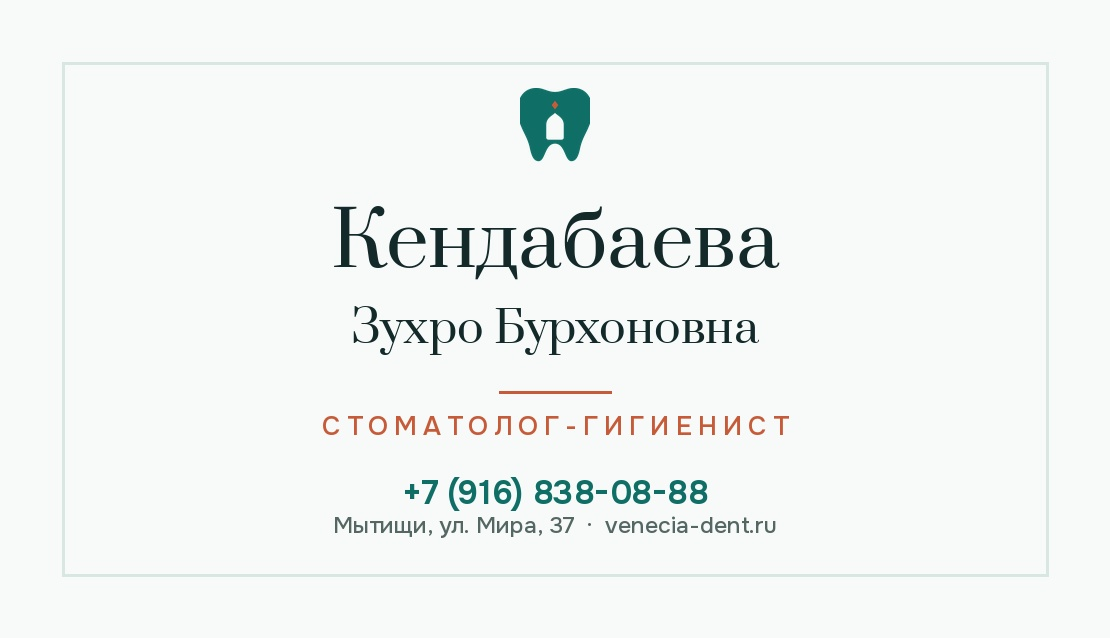
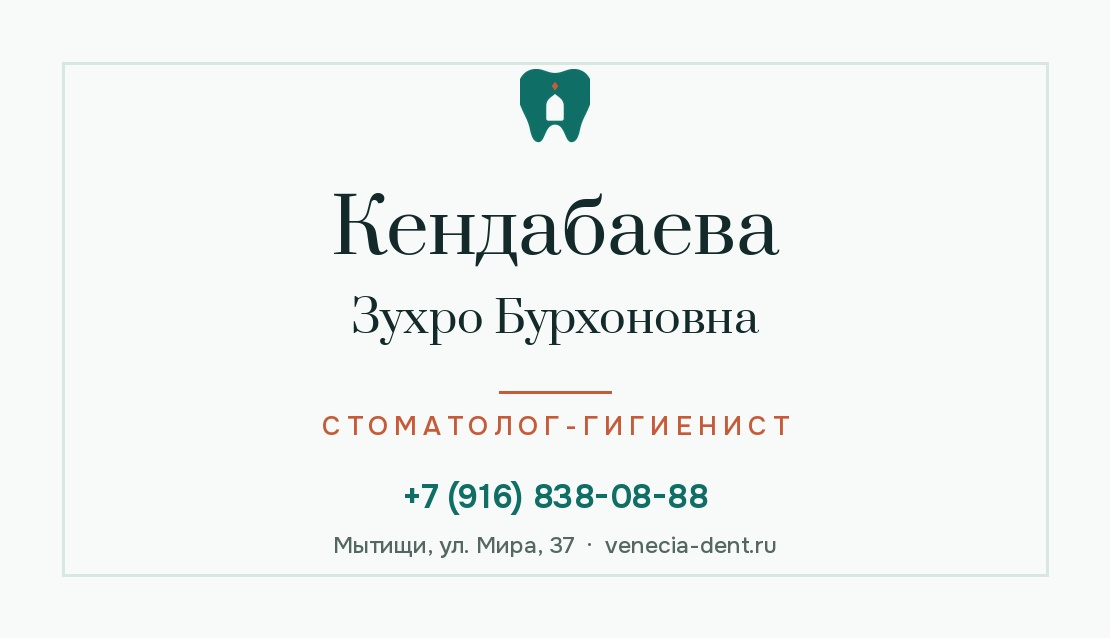
Визитки: единый ритм отступов 46/22, идентичная посадка на всех карточках (эталонные метрики шрифта)

diff --git a/_materials/vizitki/build-cards.py b/_materials/vizitki/build-cards.py
@@ -64,19 +64,27 @@ def front(surname, name, role, out, frame=True):
     f_sur, f_nam, f_role = prata(76), prata(44), onest(26, 550)
     f_ph, f_ad = onest(33, 650), onest(23, 500)
 
-    def th(text, font, ls=0):
+    def th(text, font):
         b = d.textbbox((0, 0), text, font=font)
         return b[1], b[3] - b[1]  # (смещение до чернил, высота чернил)
 
-    # элементы и ЧИСТЫЕ визуальные зазоры между чернилами (px)
+    # высоты — по ЭТАЛОННОЙ строке «Ду» (капитель+выносной), а не по
+    # фактической фамилии: иначе карточки разных врачей едут по вертикали
+    sur_off, sur_h = th('Ду', f_sur)
+    nam_off, nam_h = th('Ду', f_nam)
+    role_off, role_h = th('СТ', f_role)
+    ph_off, ph_h = th('+7 (916)', f_ph)
+    ad_off, ad_h = th('Мытищи, 37', f_ad)
+
+    # строгий ритм: G=46 между блоками, g=22 внутри блока (G g G g G g)
     seq = [
-        ('mark', mh),  ('gap', 40),
-        ('sur',  th(surname, f_sur)[1]),   ('gap', 26),
-        ('nam',  th(name, f_nam)[1]),      ('gap', 36),
-        ('line', 3),                        ('gap', 22),
-        ('role', th(role.upper(), f_role)[1]), ('gap', 42),
-        ('ph',   th('+7', f_ph)[1]),       ('gap', 16),
-        ('ad',   th('Мытищи', f_ad)[1]),
+        ('mark', mh),  ('gap', 46),
+        ('sur',  sur_h),  ('gap', 22),
+        ('nam',  nam_h),  ('gap', 46),
+        ('line', 3),      ('gap', 22),
+        ('role', role_h), ('gap', 46),
+        ('ph',   ph_h),   ('gap', 22),
+        ('ad',   ad_h),
     ]
     total = sum(hh for _, hh in seq)
     y = (H - total) / 2 - 6  # оптически чуть выше геометрического центра
@@ -87,22 +95,17 @@ def front(surname, name, role, out, frame=True):
         if kind == 'mark':
             im.paste(mark, (round(cx - mw / 2), round(y)), mark)
         elif kind == 'sur':
-            off, _ = th(surname, f_sur)
-            ctext(d, cx, y - off, surname, f_sur, INK)
+            ctext(d, cx, y - sur_off, surname, f_sur, INK)
         elif kind == 'nam':
-            off, _ = th(name, f_nam)
-            ctext(d, cx, y - off, name, f_nam, INK)
+            ctext(d, cx, y - nam_off, name, f_nam, INK)
         elif kind == 'line':
             d.line([cx - 56, y + 1, cx + 56, y + 1], fill=TERRA, width=3)
         elif kind == 'role':
-            off, _ = th(role.upper(), f_role)
-            ctext(d, cx, y - off, role.upper(), f_role, TERRA, ls=6)
+            ctext(d, cx, y - role_off, role.upper(), f_role, TERRA, ls=6)
         elif kind == 'ph':
-            off, _ = th('+7 (916) 838-08-88', f_ph)
-            ctext(d, cx, y - off, '+7 (916) 838-08-88', f_ph, LAGOON)
+            ctext(d, cx, y - ph_off, '+7 (916) 838-08-88', f_ph, LAGOON)
         elif kind == 'ad':
-            off, _ = th('Мытищи', f_ad)
-            ctext(d, cx, y - off, 'Мытищи, ул. Мира, 37  ·  venecia-dent.ru', f_ad, MUTED)
+            ctext(d, cx, y - ad_off, 'Мытищи, ул. Мира, 37  ·  venecia-dent.ru', f_ad, MUTED)
         y += hh
 
     im.save(os.path.join(HERE, out), quality=95, dpi=(300, 300))
